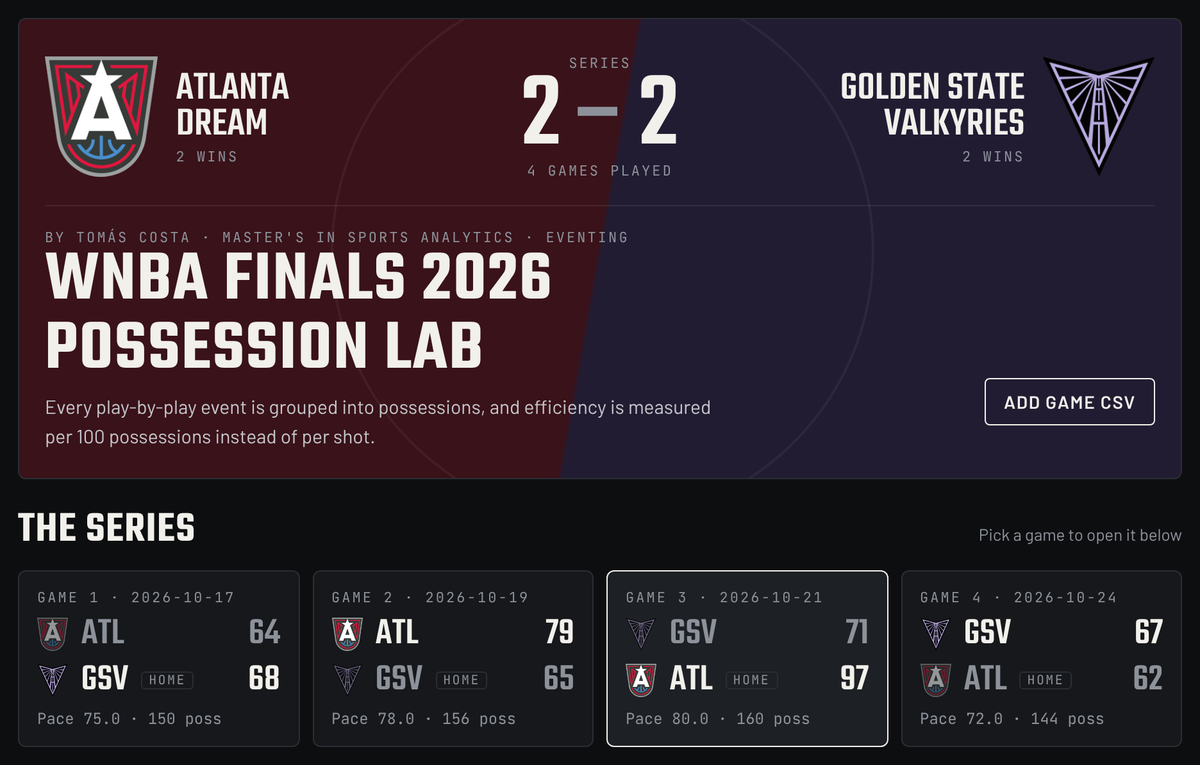
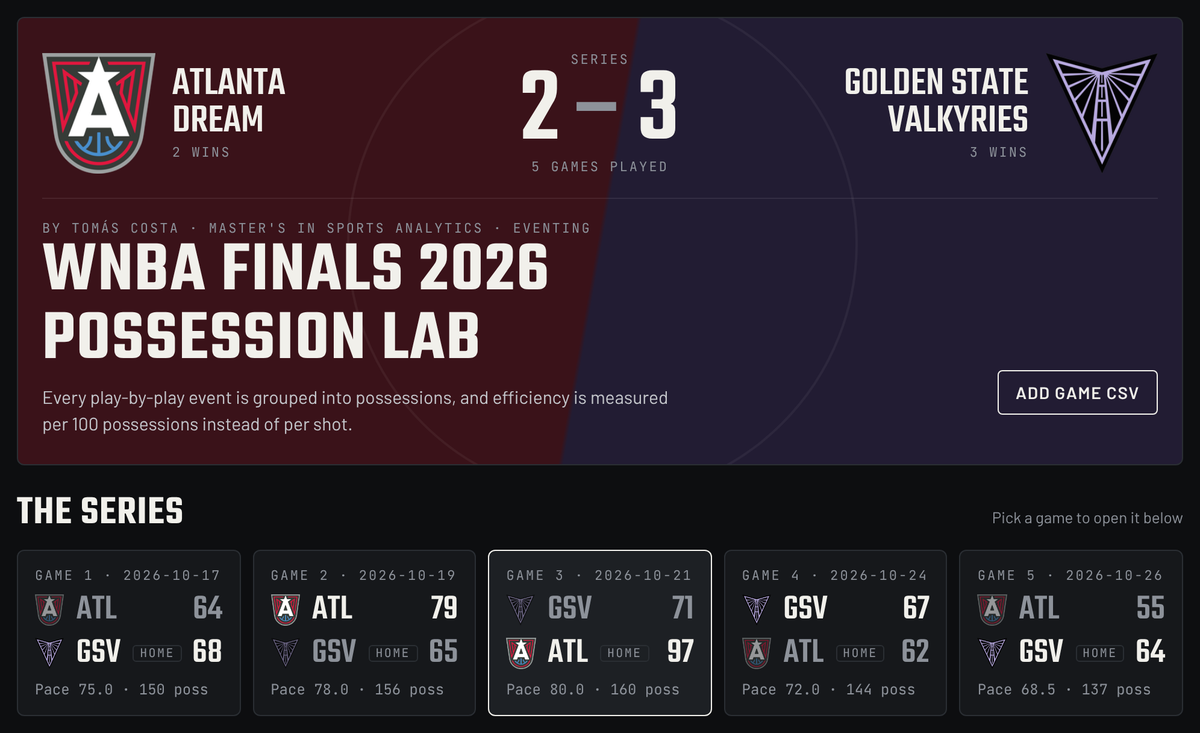
Add files via upload

diff --git a/finals-pace.html b/finals-pace.html
@@ -33,7 +33,7 @@
   <h1>We Built a Possession Lab for the WNBA Finals — and It Says Pace Decides the Series</h1>
   <p class="dek">An interactive tool that rebuilds every possession of Dream vs Valkyries from the official play-by-play. After 610 possessions, one number keeps deciding a 2–2 series: pace.</p>
   <div class="byline">
-    <div class="author"><img src="avatar.png" alt=""><div><b>Tomás Costa</b><span>26 Oct 2026 · <span id="readtime"></span></span></div></div>
+    <div class="author"><img src="avatar.png" alt=""><div><b>Tomás Costa</b><span>26 Oct 2026 · Updated 27 Oct · <span id="readtime"></span></span></div></div>
     <div class="share"><button class="btn line sm" id="copylink" type="button">Copy link</button><a class="btn line sm" href="https://instagram.com/the.w.lab" target="_blank" rel="noopener">Instagram</a></div>
   </div>
 </div></section>
@@ -42,7 +42,8 @@
 
 <div class="a-layout wrap">
   <article class="a-body">
-    <div class="glance-m box"><h4>At a glance</h4><div class="glance"><div><b>610</b><span>possessions rebuilt from the official play-by-play</span></div><div><b>36</b><span>points per 100 possessions between Atlanta's best and worst game</span></div><div><b>2–0</b><span>Golden State's record when the pace stays below 76</span></div></div></div>
+    <div class="glance-m box"><h4>At a glance</h4><div class="glance"><div><b>747</b><span>possessions rebuilt from the official play-by-play (Games 1–5)</span></div><div><b>42</b><span>points per 100 possessions between Atlanta's best and worst game</span></div><div><b>3–0</b><span>Golden State's record when the pace stays below 76</span></div></div></div>
+<div class="callout"><p><strong>Update · 27 Oct, after Game 5 — Valkyries 64, Dream 55. Golden State leads 3–2.</strong> This article was written before Game 5 and named three numbers to watch. All three went Golden State's way: the pace was <strong>68.5</strong>, the slowest game of the series; the Valkyries turned it over on just <strong>13.2%</strong> of their possessions (9 turnovers) while Atlanta gave it away on <strong>24.6%</strong>; and Atlanta's eFG% fell to <strong>33.8%</strong>, its lowest of the Finals (79.7 points per 100 possessions). Golden State is now <strong>3–0</strong> when the pace stays below 76. The Possession Lab below already includes Game 5. Game 6 is Thursday in Atlanta.</p></div>
 <p>Four games in, the WNBA Finals are level. Golden State took Game 1 by four. Atlanta answered with a 14-point win and then a 26-point blowout. Golden State tied it again on Saturday, 67–62.</p>
 <p>The scorelines look random. They aren't. Once you stop counting points and start counting <strong>possessions</strong>, the series has a very clear shape — and one variable that keeps deciding which way it goes.</p>
 <p>To see it, I built a tool: the <strong>WNBA Finals Possession Lab</strong>. It takes the official play-by-play, rebuilds every possession of the series and measures both teams per 100 possessions. You can explore it yourself further down this page.</p>
@@ -79,6 +80,7 @@
 <tr><td>G2</td><td>78</td><td>24.7%</td><td>17.7%</td><td>39.5%</td><td>ATL 79–65</td></tr>
 <tr><td>G3</td><td>80</td><td>21.3%</td><td>12.5%</td><td>55.8%</td><td>ATL 97–71</td></tr>
 <tr><td>G4</td><td>72</td><td>12.5%</td><td>25.0%</td><td>37.0%</td><td>GSV 67–62</td></tr>
+<tr><td>G5 <span class="mono">(new)</span></td><td>68.5</td><td>13.2%</td><td>24.6%</td><td>33.8%</td><td>GSV 64–55</td></tr>
 </tbody></table>
 <p><strong>When Golden State protects the ball, Golden State wins.</strong> In its two wins, the Valkyries turned it over on 13.3% and 12.5% of their possessions. In their two losses, that jumped to 24.7% and 21.3% — roughly one possession in every four or five handed straight to Atlanta.</p>
 <p>Game 4 is the flip side. This time it was <strong>Atlanta</strong> that couldn't hold on to it: 18 turnovers, a 25% rate, and the slowest game of the series. Even with a free-throw rate above 50%, the Dream couldn't get their offense going.</p>
@@ -128,7 +130,7 @@
 
   </article>
   <aside class="a-side"><div class="stick">
-    <div class="box"><h4>At a glance</h4><div class="glance"><div><b>610</b><span>possessions rebuilt from the official play-by-play</span></div><div><b>36</b><span>points per 100 possessions between Atlanta's best and worst game</span></div><div><b>2–0</b><span>Golden State's record when the pace stays below 76</span></div></div></div>
+    <div class="box"><h4>At a glance</h4><div class="glance"><div><b>747</b><span>possessions rebuilt from the official play-by-play (Games 1–5)</span></div><div><b>42</b><span>points per 100 possessions between Atlanta's best and worst game</span></div><div><b>3–0</b><span>Golden State's record when the pace stays below 76</span></div></div></div>
     <div class="box"><h4>In this article</h4><nav class="toc" id="toc"></nav></div>
     <div class="box toolbox"><h4>Interactive tool</h4><p>Explore every possession of the Finals yourself.</p><a class="btn sm" href="https://tomascosta7.github.io/wnba-finals-possession-lab/" target="_blank" rel="noopener">Open the Possession Lab →</a></div>
   </div></aside>

diff --git a/index.html b/index.html
@@ -161,7 +161,7 @@ a:focus-visible,button:focus-visible{outline:2px solid var(--rasp);outline-offse
       <div class="txt">
         <div class="badge"><span>New</span><span class="ghost">Analysis + Tool</span><span class="ghost">WNBA Finals 2026</span></div>
         <h1>We Built a Possession Lab for the WNBA Finals — and It Says Pace Decides the Series</h1>
-        <p>An interactive tool that rebuilds every possession of Dream vs Valkyries from the official play-by-play. After 610 possessions, one number keeps deciding a 2–2 series: pace.</p>
+        <p>An interactive tool that rebuilds every possession of Dream vs Valkyries from the official play-by-play. After 747 possessions, one number keeps deciding the series: pace. Now updated after Game 5.</p>
         <div class="ctas"><span class="btn">Read the analysis →</span><span class="btn line" onclick="event.preventDefault();window.open('https://tomascosta7.github.io/wnba-finals-possession-lab/','_blank')">Open the tool</span></div>
         <span class="meta">Tomás Costa · 26 Oct 2026 · 8 min read</span>
       </div>
@@ -183,9 +183,9 @@ a:focus-visible,button:focus-visible{outline:2px solid var(--rasp);outline-offse
       </div>
       <div class="stat">
         <span class="kicker">Stat of the series</span>
-        <div class="n">2–0</div>
+        <div class="n">3–0</div>
         <p>Golden State's record when the pace stays <b>below 76</b> possessions per 40 minutes. Above it, Atlanta is 2–0.</p>
-        <svg class="pacebars" viewBox="0 0 400 168" role="img" aria-label="Pace by game: 75, 78, 80, 72; series average 76.3"><rect x="10" y="63.5" width="80" height="76.5" rx="5" fill="var(--gsv)"/><text x="50" y="55.5" text-anchor="middle" class="v">75</text><text x="50" y="160" text-anchor="middle" class="g">G1</text><rect x="112" y="38.0" width="80" height="102.0" rx="5" fill="var(--atl)"/><text x="152" y="30.0" text-anchor="middle" class="v">78</text><text x="152" y="160" text-anchor="middle" class="g">G2</text><rect x="214" y="21.0" width="80" height="119.0" rx="5" fill="var(--atl)"/><text x="254" y="13.0" text-anchor="middle" class="v">80</text><text x="254" y="160" text-anchor="middle" class="g">G3</text><rect x="316" y="89.0" width="80" height="51.0" rx="5" fill="var(--gsv)"/><text x="356" y="81.0" text-anchor="middle" class="v">72</text><text x="356" y="160" text-anchor="middle" class="g">G4</text><line x1="0" x2="400" y1="52.5" y2="52.5" stroke="var(--rasp)" stroke-width="1.5" stroke-dasharray="5 4"/><text x="398" y="46.5" text-anchor="end" class="a">avg 76.3</text><line x1="0" x2="400" y1="140" y2="140" stroke="var(--border)"/></svg>
+        <svg class="pacebars" viewBox="0 0 400 168" role="img" aria-label="Pace by game: 75, 78, 80, 72, 68.5; series average 74.7"><rect x="0" y="63.5" width="64" height="76.5" rx="5" fill="var(--gsv)"/><text x="32" y="55.5" text-anchor="middle" class="v">75</text><text x="32" y="160" text-anchor="middle" class="g">G1</text><rect x="84" y="38.0" width="64" height="102.0" rx="5" fill="var(--atl)"/><text x="116" y="30.0" text-anchor="middle" class="v">78</text><text x="116" y="160" text-anchor="middle" class="g">G2</text><rect x="168" y="21.0" width="64" height="119.0" rx="5" fill="var(--atl)"/><text x="200" y="13.0" text-anchor="middle" class="v">80</text><text x="200" y="160" text-anchor="middle" class="g">G3</text><rect x="252" y="89.0" width="64" height="51.0" rx="5" fill="var(--gsv)"/><text x="284" y="81.0" text-anchor="middle" class="v">72</text><text x="284" y="160" text-anchor="middle" class="g">G4</text><rect x="336" y="118.8" width="64" height="21.2" rx="5" fill="var(--gsv)"/><text x="368" y="110.8" text-anchor="middle" class="v">68.5</text><text x="368" y="160" text-anchor="middle" class="g">G5</text><line x1="0" x2="400" y1="66.0" y2="66.0" stroke="var(--rasp)" stroke-width="1.5" stroke-dasharray="5 4"/><text x="398" y="60.0" text-anchor="end" class="a">avg 74.7</text><line x1="0" x2="400" y1="140" y2="140" stroke="var(--border)"/></svg>
         <div class="legend"><span><i style="background:var(--atl)"></i>Atlanta win</span><span><i style="background:var(--gsv)"></i>Golden State win</span></div>
         <a href="finals-pace.html">See the numbers →</a>
       </div>
@@ -229,7 +229,7 @@ a:focus-visible,button:focus-visible{outline:2px solid var(--rasp);outline-offse
         <div class="th"><img src="finals_pace_thumb.png" alt=""></div>
         <div class="bd"><div class="tags"><span>WNBA</span><span>Tool</span></div>
           <h3>We Built a Possession Lab for the WNBA Finals — and It Says Pace Decides the Series</h3>
-          <p>610 possessions, one number that keeps deciding a 2–2 series.</p>
+          <p>747 possessions, one number that keeps deciding the series. Updated after Game 5.</p>
           <span class="meta">26 Oct 2026</span></div>
       </a>
       <a class="card" href="talent-pipeline.html" data-tags="europe">

diff --git a/site.js b/site.js
@@ -8,23 +8,23 @@
    ===================================================================== */
 window.WLAB = {
   TICKER: [
-    "<b>WNBA Finals</b> · Series tied <em>2–2</em>",
-    "<b>Game 5</b> · Dream at Valkyries · Chase Center · Mon 26 Oct · 8pm ET",
-    "<b>Game 4</b> · Valkyries 67–62 Dream",
+    "<b>WNBA Finals</b> · Valkyries lead <em>3–2</em>",
+    "<b>Game 5</b> · Valkyries 64–55 Dream · pace <em>68.5</em>, slowest of the series",
+    "<b>Game 6</b> · Valkyries at Dream · Atlanta · Thu 29 Oct · 8pm ET",
+    "Golden State is <em>3–0</em> when the pace stays below 76",
     "<b>Game 3</b> · Dream 97–71 Valkyries · Atlanta offense <em>121.3</em> per 100",
-    "Golden State is <em>2–0</em> when the pace stays below 76",
     "<b>New on The W Lab</b> · We built a Possession Lab for the Finals",
     "<b>Kelsey Plum</b> · <em>65.2%</em> True Shooting, best among the top 10 scorers",
     "<b>Spain</b> · <em>10</em> U20 Women's EuroBasket titles in 22 editions"
   ],
   SERIES: {
-    results: ["GSV 68–64","ATL 79–65","ATL 97–71","GSV 67–62"],
-    next: { label:"Game 5", where:"Dream at Valkyries · Chase Center", tipoff:"2026-10-27T00:00:00Z" } // 8pm ET Mon 26 Oct
+    results: ["GSV 68–64","ATL 79–65","ATL 97–71","GSV 67–62","GSV 64–55"],
+    next: { label:"Game 6", where:"Valkyries at Dream · Atlanta", tipoff:"2026-10-30T00:00:00Z" } // 8pm ET Thu 29 Oct
   },
   ARTICLES: [
     { slug:"finals-pace", href:"finals-pace.html", img:"finals_pace_thumb.png", tags:["WNBA","Tool"], date:"26 Oct 2026",
       title:"We Built a Possession Lab for the WNBA Finals — and It Says Pace Decides the Series",
-      dek:"610 possessions, one number that keeps deciding a 2–2 series." },
+      dek:"747 possessions, one number that keeps deciding the series. Updated after Game 5." },
     { slug:"talent-pipeline", href:"talent-pipeline.html", img:"U20W_pipeline_04.png", tags:["Europe","FIBA"], date:"3 Jul 2026",
       title:"Produced, Not Promised: What 25 Years of U20 Medals Say About Senior Success",
       dek:"Does dominating Europe's youth game predict anything at senior level?" },
